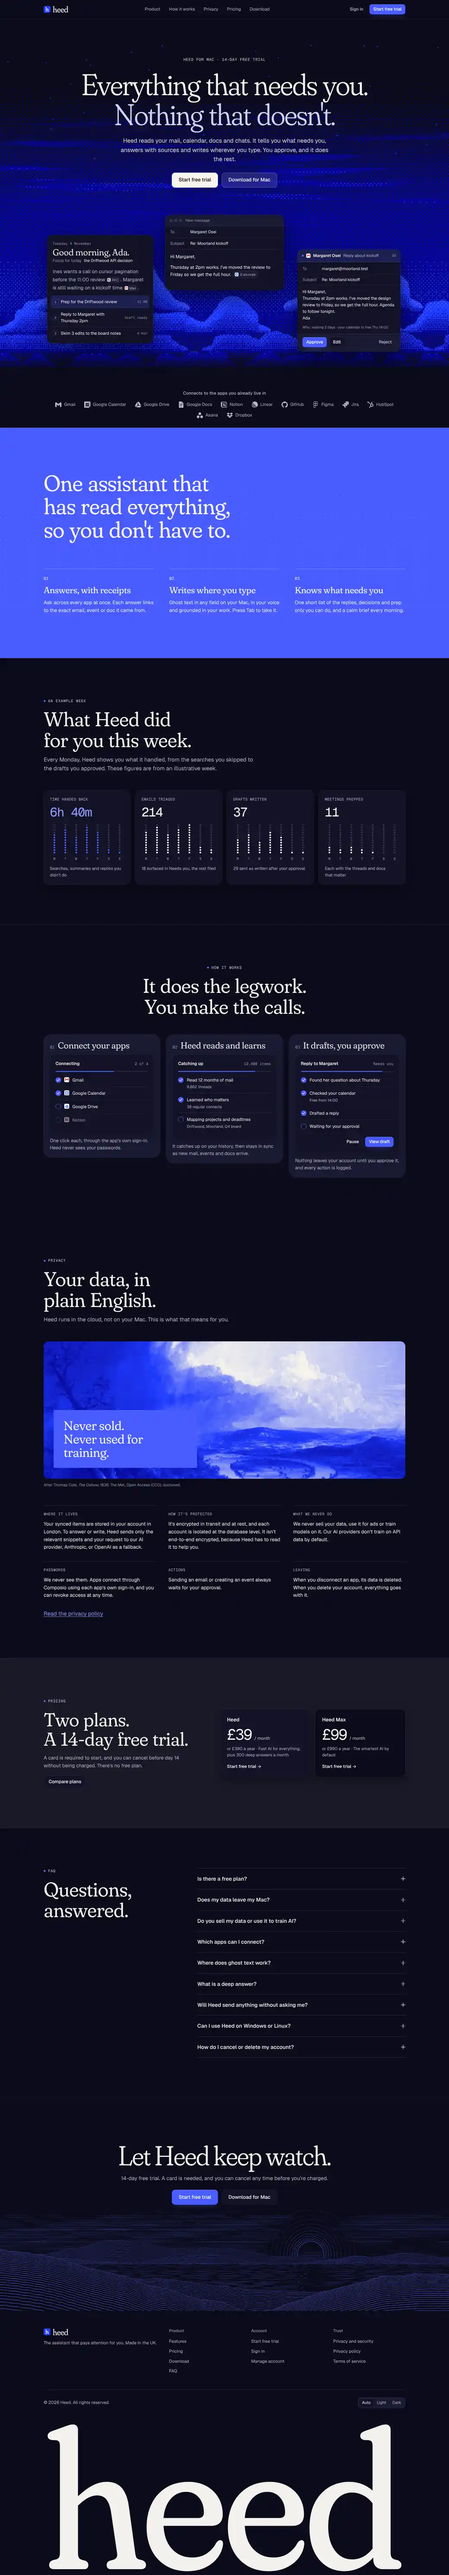
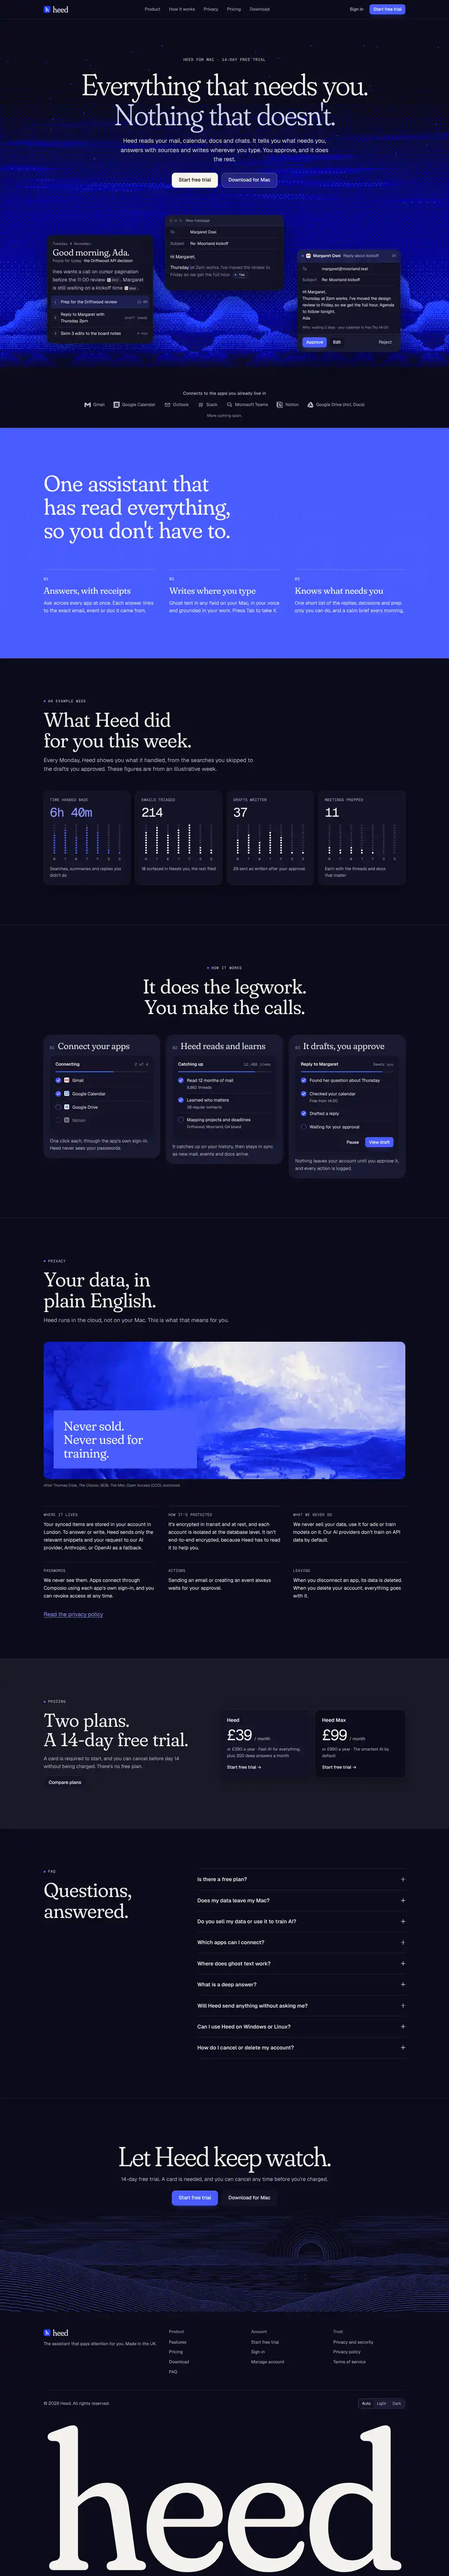
site: list only the apps the cloud supports; make the hero ghost text look like a suggestion
The "Connects to" strip had been claiming apps the cloud can't sync. It
now lists exactly the cloud catalogue in
crates/nugget-cloud/src/apps/mod.rs:
- Gmail, Google Calendar, Outlook, Slack, Microsoft Teams, Notion and
  Google Drive (shown as "Google Drive (incl. Docs)"), with "More
  coming soon" after them.
- scripts/sync-apps.mjs reads CATALOG and resolves each slug constant
  into src/data/apps.json. Use `npm run apps` to regenerate, or
  `--check` to check it's current.
- Gmail, Calendar, Drive and Notion use Simple Icons (CC0). Outlook,
  Teams and Slack aren't in Simple Icons, so they get a neutral line
  glyph next to their name.
- The FAQ answer is built from the same list.
- The smoke test fails if apps.json drifts from mod.rs, or if the
  strip or the FAQ drift from apps.json.

The hero's "New message" card now renders in the suggesting state:
ghost text in quiet ink, which stays AA, at a lighter weight, with the
Tab keycap after it. Accepted text appears only during the animated
loop.

CREDITS and README are updated.

Claude-Session: https://claude.ai/code/session_01CTjRSsUWR7pbEgntwgYYWx

diff --git a/site/src/lib/apps.ts b/site/src/lib/apps.ts
@@ -1,0 +1,20 @@
+/**
+ * The apps Heed can connect, generated from the cloud's catalogue
+ * (crates/nugget-cloud/src/apps/mod.rs) by scripts/sync-apps.mjs. Don't edit apps.json by hand.
+ */
+import apps from "../data/apps.json";
+
+export interface App {
+  slug: string;
+  name: string;
+}
+export const APPS: App[] = apps;
+
+/** How the site labels an app. Docs come in through Drive. */
+export const label = (a: App) => (a.slug === "googledrive" ? "Google Drive (incl. Docs)" : a.name);
+
+/** "Gmail, Google Calendar, … and Notion" */
+export const appList = () => {
+  const names = APPS.map(label);
+  return names.length > 1 ? `${names.slice(0, -1).join(", ")} and ${names.at(-1)}` : (names[0] ?? "");
+};

diff --git a/site/src/lib/faq.ts b/site/src/lib/faq.ts
@@ -1,3 +1,5 @@
+import { appList } from "./apps";
+
 export const FAQ: { q: string; a: string }[] = [
   {
     q: "Is there a free plan?",
@@ -13,7 +15,7 @@ export const FAQ: { q: string; a: string }[] = [
   },
   {
     q: "Which apps can I connect?",
-    a: "Gmail and Google Calendar first, with Google Drive, Notion, Linear, GitHub and more on the way. Connecting takes one click: you approve access with the app itself, and Heed never sees your password.",
+    a: `${appList()}. More coming soon. Connecting takes one click: you approve access with the app itself, and Heed never sees your password.`,
   },
   {
     q: "Where does ghost text work?",

diff --git a/site/CREDITS.md b/site/CREDITS.md
@@ -18,9 +18,14 @@ Regenerate the art with `node scripts/art/sky.mjs && node scripts/art/landscape.
 
 ## App logos
 
-Gmail, Google Calendar, Google Drive, Google Docs, Notion, Linear, GitHub, Figma, Jira, HubSpot, Asana
-and Dropbox come from [Simple Icons](https://simpleicons.org) (CC0 1.0). They are inlined at build
-time. The logos are trademarks of their owners, and using them doesn't imply endorsement.
+The "Connects to" strip lists exactly the apps in the cloud's catalogue
+(`crates/nugget-cloud/src/apps/mod.rs`, read into `src/data/apps.json` by `scripts/sync-apps.mjs`):
+- Gmail, Google Calendar, Google Drive and Notion use [Simple Icons](https://simpleicons.org)
+  (CC0 1.0), inlined at build time.
+- Outlook, Microsoft Teams and Slack aren't on Simple Icons, because their owners asked for removal.
+  They're shown with a neutral line glyph next to their name, not a logo.
+
+The logos are trademarks of their owners, and using them doesn't imply endorsement.
 
 ## Fonts
 

diff --git a/site/README.md b/site/README.md
@@ -54,6 +54,13 @@ These come from `crates/nugget-cloud` on `ar/cloud` (`src/api/billing.rs`, `plan
   limits both tables to the signed-in user. Going through Supabase means a single round trip, and
   the devices list can be managed from the same place.
 
+### Connected apps come from the cloud's catalogue
+
+The "Connects to" strip and the FAQ list exactly the apps in `crates/nugget-cloud/src/apps/mod.rs`
+(`CATALOG`). `npm run apps` regenerates `src/data/apps.json` from that file, and
+`node scripts/sync-apps.mjs --check` checks it's up to date. The smoke test fails if the JSON, the
+strip or the FAQ drift from the catalogue. Add an app to the cloud first, then run `npm run apps`.
+
 ### Prices come from the API
 
 `src/lib/plans.ts` fetches the public `GET /v1/billing/plans` **at build time**. It writes the
